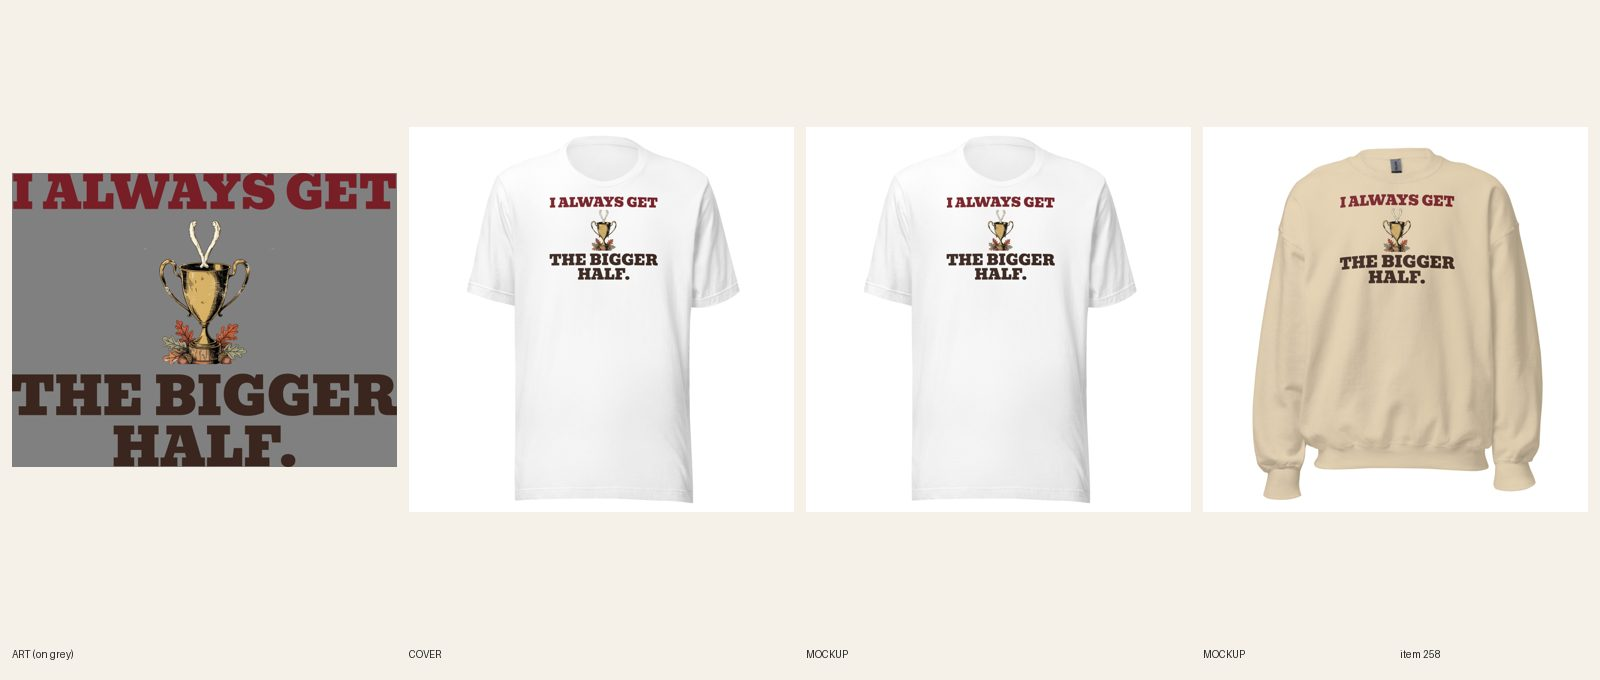
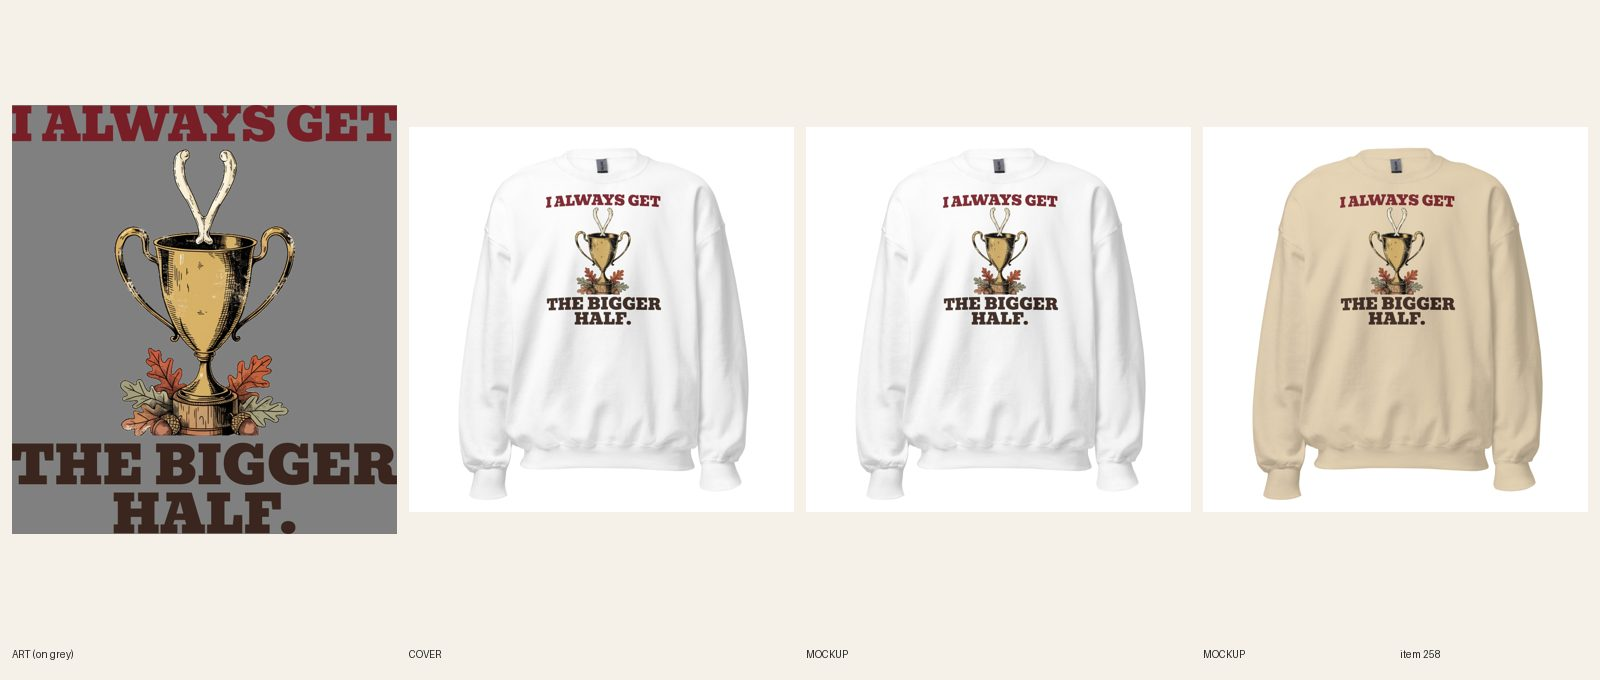
[A] review 258 (redo)
Claude-Session: https://claude.ai/code/session_01LaaEYpKaSBZd9opL7Tpo7i

diff --git a/docs/pipeline/258-thanksgiving-wishbone-champion-crewneck.md b/docs/pipeline/258-thanksgiving-wishbone-champion-crewneck.md
@@ -1,4 +1,4 @@
-status: REDO
+status: REVIEW
 lane: A
 type: twin
 id: 258
@@ -30,3 +30,4 @@ handle: mens-thanksgiving-wishbone-champion-crewneck-sweatshirt
 - 2026-10-20 05:16 UTC director: REDO from docs/review/258.jpg (product stays ACTIVE). 1. R3.13: same line as #257 (WISHBONE CHAMP. / NO OTHER WINS.), weaker than the references. Port #257's new print when it is approved.
 - 2026-10-20 11:42 UTC builder [A]: REDO 2 (director 2026-10-20 05:16: R3.13, WISHBONE CHAMP. / NO OTHER WINS. was the "___ Champion" template; one new print for both twins) done. Five new wishbone lines written (sly, wearer in on it; not SORRY/BOOKED, no "good part"): I ALWAYS GET THE BIGGER HALF. kept (the winner quietly picks his end). Layout (cards 7h, 7k, scripts/_a_lockup2.py): I ALWAYS GET above the trophy, THE BIGGER / HALF. below at the same size, trophy scaled to 1178 px wide: "headline 3218 px / punch 3237 px" (punch wider, same line height as the headline's size class), "type 1013 of 2470 px" = 41% of the print height; Bevan, maroon + dark brown, lockup 3237x2470; one dark-ink file on every light color: 1090314561 (tee FW 1500 TOP 75, crewneck FW 1650 TOP 75). Relinked verified (tee 42/42 sync 482345896, crewneck 24/24 sync 482346982). 10 fronts replaced in place. Titles now "Men's Thanksgiving – I Always Get the Bigger Half Tee" / "... Crewneck Sweatshirt" (card 7i), SEO title/meta, line one, art sentence and FAQ 1 updated. Plain product shots kept. fal $0. audit PASS; build ok.
 - 2026-10-20 12:45 UTC director: REDO from docs/review/258.jpg. Same as #257 (trophy at 36% of the lockup width, card 7l): port #257's fixed print. Also the sheet's COVER and first MOCKUP panels show the tee; a crewneck sheet shows crewneck shots.
+- 2026-10-20 15:23 UTC builder [A]: REDO 3 done (director 2026-10-20 12:45, card 7l: trophy at 36% of the lockup width; make the wishbone read as a wishbone). Lines kept as approved (I ALWAYS GET / THE BIGGER HALF., Bevan, maroon + dark brown). Stray specks cleaned off the art (they had widened its box), then the trophy is scaled up: "subject 1489 of 3170 px" = 47% of the lockup width (was 1178 of 3237 px = 36%). The wishbone is the clear forked Y-bone with a knob at the foot and two knuckled tips; at the new size it reads as a wishbone on every mockup. Layout (scripts/_a_lockup2.py): "headline 3168 px / punch 3170 px" (punch at least as wide), "type 994 of 3529 px". Lockup 3170x3529 (taller than the ~3200 px guide because the trophy is a tall subject: at 47% of the width it needs 2355 px of height; at FW 1500 that is about 11.1 in on the 16 in print area). One dark-ink file for every light color and both twins: 1090401480 (tee FW 1500 TOP 75, crewneck FW 1650 TOP 75). Relinked verified below (tee sync 482345896, crewneck sync 482346982). 10 fronts replaced in place (6 tee, 4 crewneck); the #258 review sheet shows crewneck fronts. Copy unchanged (art sentence already names the trophy and wishbone). Plain product shots kept. fal $0. audit PASS; build ok.

diff --git a/docs/intake-log.md b/docs/intake-log.md
@@ -1,4 +1,5 @@
 RUNNING lane C since 2026-10-20 15:08 UTC
+2026-10-20 15:23 UTC — [A] Builder run: #258 crewneck gets #257's bigger trophy print, synced. REVIEW. fal $0.
 2026-10-20 15:21 UTC — [A] Builder run: #257 trophy at 47% of the lockup width, tee synced. REVIEW. fal $0.
 2026-10-20 15:19 UTC — [A] Builder run: #617 PANICKED. re-lettered (heavy slab), 12/12 synced. REVIEW. fal $0.
 2026-10-20 15:18 UTC — [A] Builder run: #616 PANICKED. re-lettered (heavy slab), 42/42 synced. REVIEW. fal $0.
